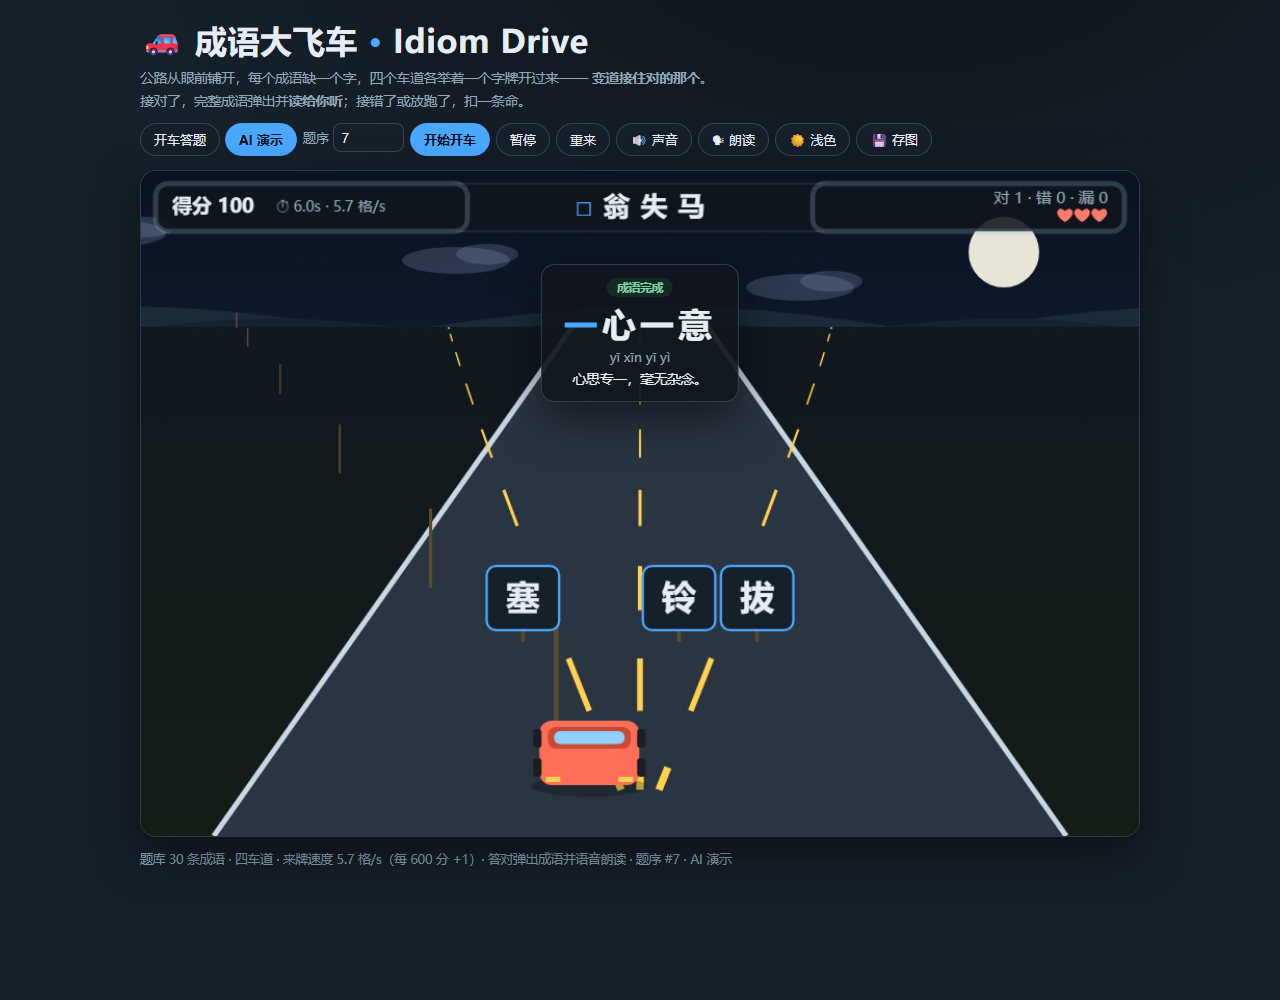
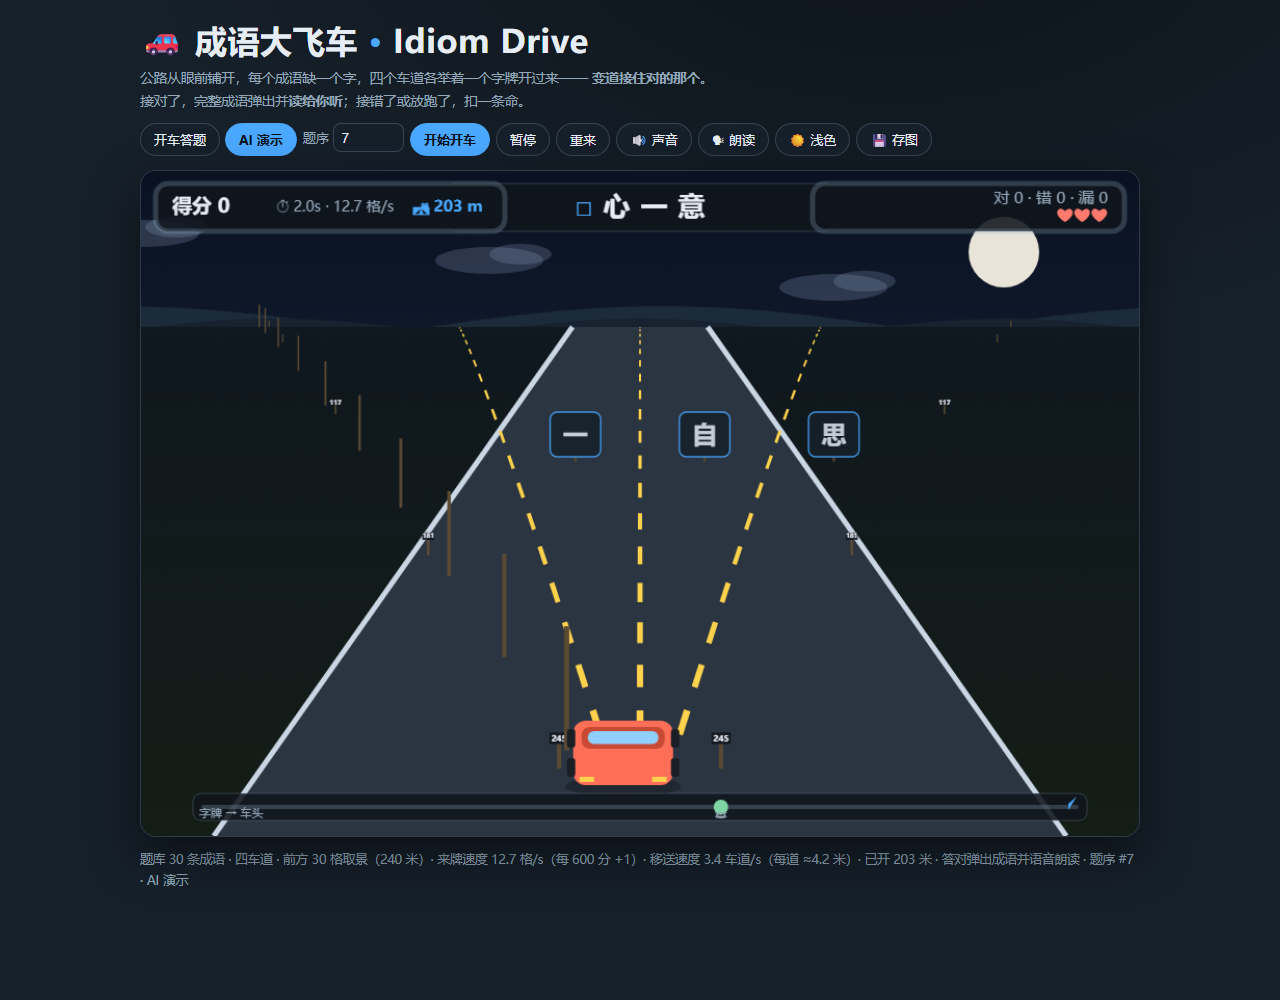
feat(idiom-drive): 拉长移送距离——更长取景、平滑变道与里程表
- 前方取景从 13 格扩到 30 格（约 240 米），来牌速度 5.5 -> 12.7 格/s
- 换道不再瞬移：carX 连续坐标以 3.4 车道/秒滑过去，车身随之侧倾，
  横向移送每道约 4.2 米并计入里程；接牌判定改看 carX 是否到位
- 新增 HUD 里程表与画面下缘的「字牌 -> 车头」距离条，路边加里程桩
- 同步更新 core harness（83 项）与页内自检（25 项）

diff --git a/idiom-driving.html b/idiom-driving.html
@@ -172,11 +172,15 @@ const IDIOMS = [
 ];
 
 const LANES = 4;
-const SPAWN_Z = 13;      // 字牌出现的最远距离
+const SPAWN_Z = 30;      // 字牌出现的最远距离：路很长，每块牌要开很久才到
 const HIT_Z = 0.8;       // 判定接住的车头距离
 const DEAD_Z = -0.9;     // 放跑判定
-const BASE_SPEED = 5.5;  // 初始来牌速度（格/秒）
-const MAX_SPEED = 13;
+const BASE_SPEED = 12.7; // 初始来牌速度（格/秒）
+const MAX_SPEED = 30;    // 速度上限
+const SHIFT_SPEED = 3.4; // 变道速度（车道/秒）：车是「移送」过去的，不是瞬移
+const METERS_PER_CELL = 8;  // 一格路 = 8 米
+const METER_PER_LANE = 4.2; // 横向移送一整条车道 ≈ 4.2 米
+const METERS_PER_SIGN = 90; // 一块字牌从出现到车头要开过的距离（里程刻度用）
 
 function createGame(cfg){
   cfg = cfg || {};
@@ -238,7 +242,11 @@ function createGame(cfg){
   const S = {
     seed, phase: 'menu', paused: false, t: 0, elapsed: 0,
     score: 0, combo: 0, bestCombo: 0, lives: 3,
-    speed: BASE_SPEED, carLane: 1,
+    speed: BASE_SPEED,
+    carLane: 1,          // 目标车道（整数）
+    carX: 1,             // 车当前所在的连续车道坐标，移送过程中在两个整数之间
+    shiftFrom: 1, shiftTo: 1, shiftT: 1,   // 移送进度
+    meters: 0,           // 里程表：已开过的米数
     question: null, nextAt: 0.6,
     stats: {correct: 0, wrong: 0, miss: 0, questions: 0},
     events: [], demo: cfg.mode === 'demo', rng,
@@ -265,7 +273,21 @@ function createGame(cfg){
     if (S.lives <= 0){ S.phase = 'over'; S.events.push({t: 'over', score: S.score}); }
   }
 
-  /* 演示模式的车：默认开在正解车道；偶尔犹豫一下偏到别的车道，制造真实的失误节奏。 */
+  /* 横向移送：车不是瞬移到隔壁车道，而是用一段时间滑过去。
+   * carX 是连续坐标（1.0 = 正中在 1 号道，1.35 = 正移送向 2 号道）。
+   * carLane 是车最终要停下的车道。 */
+  function moveCar(dt){
+    const diff = S.carLane - S.carX;
+    const step = SHIFT_SPEED * dt;
+    if (Math.abs(diff) <= step){ S.carX = S.carLane; }
+    else S.carX += Math.sign(diff) * step;
+    // 移送本身也算里程：横向移送一整条道约 4.2 米
+    const before = S.carX;
+    S.meters += Math.abs(S.carX - (S._lastCarX == null ? S.carX : S._lastCarX)) * METER_PER_LANE;
+    S._lastCarX = before;
+  }
+
+  /* 演示模式的车：默认开向正解车道；偶尔犹豫一下偏到别的车道，制造真实的失误节奏。 */
   function demoDrive(q, dt){
     if (S.demoMistake > 0){
       S.demoMistake -= dt;
@@ -292,26 +314,29 @@ function createGame(cfg){
     if (S.paused || S.phase !== 'play') return;
     S.t += dt; S.elapsed += dt;
     S.speed = Math.min(MAX_SPEED, BASE_SPEED + S.score / 600);
+    S.meters += S.speed * dt * METERS_PER_CELL;   // 里程表：往前开过的米数
     if (!S.question){
       if (S.t >= S.nextAt){
         S.question = makeQuestion(); S.stats.questions++;
         if (S.demo) demoDrive(S.question, dt);   // 新题一出现就选好车道
       }
+      moveCar(dt);
       return;
     }
     const q = S.question;
     if (S.demo && !q.resolved) demoDrive(q, dt);
+    moveCar(dt);
     for (const tk of q.tokens) if (!tk.done) tk.z -= S.speed * dt;
     if (!q.resolved){
-      // 车头同车道，字牌进入判定区：接到什么算什么
+      // 车头进入某条车道（横向位置足够靠近），字牌也到了判定区：接到什么算什么
       let hit = null;
       for (const tk of q.tokens){
-        if (tk.done || tk.lane !== S.carLane) continue;
+        if (tk.done || Math.abs(S.carX - tk.lane) > 0.35) continue;
         if (tk.z <= HIT_Z && tk.z > DEAD_Z){ hit = tk; break; }
       }
       if (hit){ hit.done = true; resolve(q, hit, hit.ch === q.answer ? 'correct' : 'wrong'); }
       else {
-        // 车停在空车道（或还没对上）：正解从车头开过去了 —— 判「放跑」
+        // 车不在正解车道（或还没开过去）：正解从车头开过去了 —— 判「放跑」
         const ans = q.tokens.filter(t => t.isAnswer)[0];
         if (ans && !ans.done && ans.z <= DEAD_Z){ ans.done = true; resolve(q, ans, 'miss'); }
       }
@@ -329,14 +354,16 @@ function createGame(cfg){
       if (o.mode) S.demo = o.mode === 'demo';
       S.phase = 'play'; S.paused = false;
       S.t = 0; S.elapsed = 0; S.score = 0; S.combo = 0; S.bestCombo = 0;
-      S.lives = o.lives || 3; S.speed = BASE_SPEED; S.carLane = 1;
+      S.lives = o.lives || 3; S.speed = BASE_SPEED;
+      S.carLane = 1; S.carX = 1; S._lastCarX = 1; S.meters = 0;
       S.question = null; S.nextAt = 0.6;
       S.demoMistake = 0; S.demoNextT = 0;
       S.stats = {correct: 0, wrong: 0, miss: 0, questions: 0};
       S.events.length = 0;
     },
     reset(){ S.phase = 'menu'; S.paused = false; S.t = 0; S.elapsed = 0; S.score = 0; S.combo = 0;
-      S.lives = 3; S.question = null; S.events.length = 0; S.stats = {correct: 0, wrong: 0, miss: 0, questions: 0}; },
+      S.lives = 3; S.question = null; S.events.length = 0; S.meters = 0;
+      S.stats = {correct: 0, wrong: 0, miss: 0, questions: 0}; },
     step
   };
 }
@@ -454,7 +481,7 @@ function createGame(cfg){
     const k = 1 - Math.max(-0.5, Math.min(SPAWN_Z, z)) / SPAWN_Z;
     return k;
   }
-  function depth(k){ return 0.12 + 0.88 * Math.pow(k, 2.4); }
+  function depth(k){ return 0.18 + 0.82 * Math.pow(k, 2.0); }
   function laneX(lane, k){
     const d = depth(k);
     const L = ROAD_L1 + (ROAD_L0 - ROAD_L1) * (1 - d);
@@ -505,23 +532,49 @@ function createGame(cfg){
     const scroll = (game.S.t * game.S.speed) % 1.6;
     ctx.strokeStyle = c.dash; ctx.lineCap = 'butt';
     for (let li = 1; li < LANES; li++){
-      for (let seg = 0; seg < 12; seg++){
+      for (let seg = 0; seg < 22; seg++){
         const z0 = SPAWN_Z - (seg * 1.6 + scroll), z1 = z0 - .8;
         if (z1 > SPAWN_Z) continue;
         if (z0 < -1) break;
         const k0 = persp(Math.min(z0, SPAWN_Z)), k1 = persp(Math.max(z1, -0.5));
-        const x0 = laneX(li - .5, k0) + (laneX(li + .5, k0) - laneX(li - .5, k0)) / 2;
-        const x1 = laneX(li - .5, k1) + (laneX(li + .5, k1) - laneX(li - .5, k1)) / 2;
-        // 更精确：车道边界在 lane 索引 li 的左边界
+        // 车道边界在 lane 索引 li 的左边界
         const bx0 = interpLane(li, k0), bx1 = interpLane(li, k1);
         ctx.lineWidth = Math.max(1.4, 7 * depth(k0));
         ctx.beginPath(); ctx.moveTo(bx0, roadY(k0)); ctx.lineTo(bx1, roadY(k1)); ctx.stroke();
       }
     }
+    // 路边里程桩：每 8 格一个，往后掠过去，看得出车开了多远
+    const postGap = 8;
+    const postPhase = (game.S.t * game.S.speed) % postGap;
+    for (let p = 0; p * postGap - postPhase < SPAWN_Z + postGap; p++){
+      const z = SPAWN_Z - (p * postGap - postPhase);
+      if (z < -1) continue;
+      const k = persp(Math.min(z, SPAWN_Z)), d = depth(k);
+      const y = roadY(k);
+      const L = ROAD_L1 + (ROAD_L0 - ROAD_L1) * (1 - d);
+      const R = ROAD_R1 + (ROAD_R0 - ROAD_R1) * (1 - d);
+      // 每 8 格 = 64 米
+      const mark = Math.max(1, Math.round((SPAWN_Z - z) * METERS_PER_CELL));
+      for (const side of [-1, 1]){
+        const x = side < 0 ? L - 16 * d - 6 : R + 16 * d + 6;
+        ctx.strokeStyle = c.pole;
+        ctx.lineWidth = Math.max(1.2, 4 * d);
+        ctx.beginPath(); ctx.moveTo(x, y); ctx.lineTo(x, y - 34 * d); ctx.stroke();
+        if (d > 0.25){
+          ctx.fillStyle = c.hud;
+          ctx.fillRect(x - 9 * d, y - 34 * d, 18 * d, 11 * d);
+          ctx.fillStyle = c.ink;
+          ctx.font = '700 ' + Math.max(6, Math.round(8 * d)) + 'px system-ui,sans-serif';
+          ctx.textAlign = 'center'; ctx.textBaseline = 'middle';
+          ctx.fillText(String(mark), x, y - 28 * d);
+          ctx.textAlign = 'left'; ctx.textBaseline = 'alphabetic';
+        }
+      }
+    }
     // 电线杆
     ctx.strokeStyle = c.pole;
-    for (let p = 0; p < 6; p++){
-      const z = SPAWN_Z - ((p * 2.4 + (game.S.t * game.S.speed * .8) % 2.4));
+    for (let p = 0; p < 10; p++){
+      const z = SPAWN_Z - ((p * 3.2 + (game.S.t * game.S.speed * .8) % 3.2));
       if (z < 0) continue;
       const k = persp(z), d = depth(k);
       const y = roadY(k), x = ROAD_L1 + (ROAD_L0 - ROAD_L1) * (1 - d) - 18 * (1 - d) - 4;
@@ -571,10 +624,14 @@ function createGame(cfg){
   function drawCar(){
     const c = th();
     const S = game.S;
-    const x = laneX(S.carLane, 1), y = CAR_Y;
+    // 车画在连续坐标 carX 上：移送过程中会真的从一条道滑到另一条道
+    const x = laneX(S.carX, 1), y = CAR_Y;
     const w = 96, h = 62;
+    // 移送时车身略微侧倾，像在打方向
+    const tilt = (S.carLane - S.carX) * 0.10;
     ctx.save();
     ctx.translate(x, y);
+    ctx.rotate(tilt);
     ctx.fillStyle = 'rgba(0,0,0,.25)';
     ctx.beginPath(); ctx.ellipse(0, h * .52, w * .58, 10, 0, 0, 7); ctx.fill();
     // 车身
@@ -618,7 +675,7 @@ function createGame(cfg){
     const c = th(), S = game.S;
     ctx.save();
     ctx.fillStyle = c.hud;
-    roundRect(14, 12, 300, 46, 12); ctx.fill();
+    roundRect(14, 12, 336, 46, 12); ctx.fill();
     ctx.strokeStyle = c.hudLine; ctx.stroke();
     roundRect(CW - 314, 12, 300, 46, 12); ctx.fill();
     ctx.strokeStyle = c.hudLine; ctx.stroke();
@@ -630,6 +687,11 @@ function createGame(cfg){
     ctx.font = '14px system-ui,sans-serif';
     ctx.fillStyle = c.muted;
     ctx.fillText('⏱ ' + S.elapsed.toFixed(1) + 's · ' + (S.speed).toFixed(1) + ' 格/s', 130, 35);
+    // 里程表：往前开过多少米 + 横向移送多少米
+    const km = S.meters / 1000;
+    ctx.fillStyle = c.plateEdge;
+    ctx.font = '700 15px system-ui,sans-serif';
+    ctx.fillText('🛣 ' + (km >= 1 ? km.toFixed(2) + ' km' : Math.round(S.meters) + ' m'), 262, 35);
     ctx.textAlign = 'right';
     ctx.font = '15px system-ui,sans-serif';
     ctx.fillStyle = c.muted;
@@ -639,6 +701,45 @@ function createGame(cfg){
     for (let i = 0; i < 3; i++) hearts += i < S.lives ? '❤' : '♡';
     ctx.fillStyle = c.danger;
     ctx.fillText(hearts + (S.combo >= 2 ? '  连击 ×' + S.combo : ''), CW - 30, 45);
+    ctx.restore();
+    ctx.textAlign = 'left';
+  }
+
+  /* 画面下缘的移送距离条：显示每块字牌还要开多远才到车头 */
+  function drawDistanceBar(){
+    const c = th(), S = game.S;
+    if (!S.question) return;
+    const barY = CH - 26, barX = 60, barW = CW - 120;
+    ctx.save();
+    ctx.fillStyle = c.hud;
+    roundRect(barX - 10, barY - 15, barW + 20, 26, 8); ctx.fill();
+    ctx.strokeStyle = c.hudLine; ctx.lineWidth = 1; ctx.stroke();
+    // 轨道
+    ctx.strokeStyle = c.hudLine; ctx.lineWidth = 4; ctx.lineCap = 'round';
+    ctx.beginPath(); ctx.moveTo(barX, barY - 2); ctx.lineTo(barX + barW, barY - 2); ctx.stroke();
+    // 每块字牌在轨道上的位置：越近车头越靠右
+    for (const tk of S.question.tokens){
+      if (tk.done) continue;
+      const k = Math.max(0, Math.min(1, 1 - tk.z / SPAWN_Z));
+      const x = barX + k * barW;
+      ctx.fillStyle = tk.isAnswer ? c.good : c.ink;
+      ctx.globalAlpha = tk.isAnswer ? 1 : .55;
+      ctx.beginPath(); ctx.arc(x, barY - 2, tk.isAnswer ? 7 : 5, 0, 7); ctx.fill();
+      ctx.globalAlpha = 1;
+      ctx.fillStyle = c.muted;
+      ctx.font = '11px system-ui,sans-serif';
+      ctx.textAlign = 'center';
+      ctx.fillText(tk.ch, x, barY + 8);
+    }
+    // 车
+    ctx.fillStyle = c.plateEdge;
+    ctx.beginPath();
+    ctx.moveTo(barX + barW, barY - 12); ctx.lineTo(barX + barW - 8, barY - 5); ctx.lineTo(barX + barW - 8, barY + 1);
+    ctx.closePath(); ctx.fill();
+    ctx.textAlign = 'left';
+    ctx.font = '11px system-ui,sans-serif';
+    ctx.fillStyle = c.muted;
+    ctx.fillText('字牌 → 车头', barX - 4, barY + 8);
     ctx.restore();
     ctx.textAlign = 'left';
   }
@@ -705,8 +806,10 @@ function createGame(cfg){
       if (popupTimer <= 0 && els.popup) els.popup.classList.remove('show');
     }
     if (els.foot){
-      els.foot.textContent = '题库 ' + IDIOMS.length + ' 条成语 · 四车道 · 来牌速度 ' + S.speed.toFixed(1) +
-        ' 格/s（每 600 分 +1）· 答对弹出成语并语音朗读 · 题序 #' + S.seed + ' · ' + (mode === 'demo' ? 'AI 演示' : '开车答题');
+      els.foot.textContent = '题库 ' + IDIOMS.length + ' 条成语 · 四车道 · 前方 ' + SPAWN_Z + ' 格取景（' +
+        Math.round(SPAWN_Z * METERS_PER_CELL) + ' 米）· 来牌速度 ' + S.speed.toFixed(1) +
+        ' 格/s（每 600 分 +1）· 移送速度 ' + SHIFT_SPEED + ' 车道/s（每道 ≈' + METER_PER_LANE + ' 米）· ' +
+        '已开 ' + Math.round(S.meters) + ' 米 · 答对弹出成语并语音朗读 · 题序 #' + S.seed + ' · ' + (mode === 'demo' ? 'AI 演示' : '开车答题');
     }
   }
 
@@ -734,6 +837,7 @@ function createGame(cfg){
     drawCar();
     drawQuestionBanner();
     drawHud();
+    drawDistanceBar();
   }
 
   /* ---------- 输入 ---------- */
@@ -826,7 +930,8 @@ function createGame(cfg){
     state(){
       const S = game.S;
       return {phase: S.phase, paused: S.paused, score: S.score, combo: S.combo, lives: S.lives,
-        elapsed: S.elapsed, speed: S.speed, carLane: S.carLane, seed: S.seed, demo: S.demo,
+        elapsed: S.elapsed, speed: S.speed, carLane: S.carLane, carX: Math.round(S.carX * 100) / 100,
+        meters: Math.round(S.meters), seed: S.seed, demo: S.demo,
         stats: JSON.parse(JSON.stringify(S.stats)),
         question: S.question ? {idiom: S.question.item.t, blankIdx: S.question.blankIdx,
           answer: S.question.answer, answerLane: S.question.answerLane,
@@ -866,11 +971,23 @@ function createGame(cfg){
       push('答案恰在一个车道', !!ansTok && ansTok.lane === q.answerLane && q.tokens.filter(t => t.ch === q.answer).length === 1);
       push('有一车道是空的', !!q && q.emptyLane >= 0 && !q.tokens.some(t => t.lane === q.emptyLane));
       push('三字互不重复', q && new Set(q.tokens.map(t => t.ch)).size === 3);
+      push('前方取景距离够长', SPAWN_Z >= 24 && SPAWN_Z * METERS_PER_CELL >= 200, SPAWN_Z + ' 格 ≈ ' + Math.round(SPAWN_Z * METERS_PER_CELL) + ' 米');
+      // 移送：车要真的滑过去，不是瞬移
+      if (q){
+        const gShift = createGame({seed: 7}); gShift.startMatch({});
+        for (let i = 0; i < 400 && !gShift.S.question; i++) gShift.S.question && gShift.step(1/60);
+        gShift.setLane(3);
+        gShift.step(1/60);
+        push('移送是连续的（不是瞬移）', gShift.S.carX > 1 && gShift.S.carX < 3, 'carX=' + gShift.S.carX.toFixed(2));
+        const before = gShift.S.meters;
+        for (let i = 0; i < 60; i++) gShift.step(1/60);
+        push('里程表随行驶增加', gShift.S.meters > before, Math.round(gShift.S.meters) + ' 米');
+      }
       // 接对
       if (q){
         g.setLane(q.answerLane);
         let sawCorrect = false;
-        for (let i = 0; i < 900 && !sawCorrect; i++){ g.step(1/60); while (g.S.events.length){ const ev = g.S.events.shift(); if (ev.t === 'correct') sawCorrect = true; } }
+        for (let i = 0; i < 2400 && !sawCorrect; i++){ g.step(1/60); while (g.S.events.length){ const ev = g.S.events.shift(); if (ev.t === 'correct') sawCorrect = true; } }
         push('接对得分+100', sawCorrect && g.S.score >= 100 && g.S.stats.correct === 1, 'score=' + g.S.score);
         push('弹出数据完整', sawCorrect && g.S.stats.questions >= 1);
       }
@@ -882,7 +999,7 @@ function createGame(cfg){
         const wrongTok = q4.tokens.filter(t => !t.isAnswer)[0];
         g4.setLane(wrongTok.lane);
         let sawWrong = false, lives0 = g4.S.lives;
-        for (let i = 0; i < 900 && !sawWrong; i++){ g4.step(1/60); while (g4.S.events.length){ const ev = g4.S.events.shift(); if (ev.t === 'wrong'){ sawWrong = true; } } }
+        for (let i = 0; i < 2400 && !sawWrong; i++){ g4.step(1/60); while (g4.S.events.length){ const ev = g4.S.events.shift(); if (ev.t === 'wrong'){ sawWrong = true; } } }
         push('接错扣一条命', sawWrong && g4.S.lives === lives0 - 1, 'lives ' + lives0 + '->' + g4.S.lives);
       }
       // 放跑扣命：停在空车道，正解直接开过去
@@ -892,7 +1009,7 @@ function createGame(cfg){
       if (q5){
         g5.setLane(q5.emptyLane);
         let sawMiss = false;
-        for (let i = 0; i < 1800 && !sawMiss; i++){ g5.step(1/60); while (g5.S.events.length){ const ev = g5.S.events.shift(); if (ev.t === 'miss') sawMiss = true; } }
+        for (let i = 0; i < 2400 && !sawMiss; i++){ g5.step(1/60); while (g5.S.events.length){ const ev = g5.S.events.shift(); if (ev.t === 'miss') sawMiss = true; } }
         push('放跑扣一条命', sawMiss, '');
       }
       // 三条命用完即结束

diff --git a/README.md b/README.md
@@ -16,7 +16,10 @@
 | 静音 / 朗读开关 / 深色 / 存图 | <kbd>M</kbd> · <kbd>V</kbd> · <kbd>T</kbd> · <kbd>E</kbd> |
 
 - 题库 30 条成语，每条带拼音与释义；题序 `seed` 固定后出题完全可复现。
-- 来牌速度随得分上升（每 600 分 +1 格/秒，最快 13 格/秒）。
+- **路很长**：前方取景 30 格（约 240 米），每块字牌都要开过一段路才到车头；路边有里程桩标出米数。
+- **车是移送过去的**，不是瞬移：换一道要花约 0.6 秒滑过去，车身跟着侧倾；每道横向移送约 4.2 米，也计入里程。
+- HUD 有实时里程表，画面下缘还有一条「字牌 → 车头」的进度条，看得出每块牌还有多远。
+- 来牌速度随得分上升（每 600 分 +1 格/秒，最快 30 格/秒）。
 - 「开车答题」自己开，「AI 演示」自动开给你看。
 
 ## 自动化参数
@@ -36,11 +39,12 @@
 
 ## 验证
 
-- `idiom-driving.html?selftest=1`：**22 项页内断言全部通过**（含题库格式、同题序出题一致、换题序出题改变、
-  答案恰在一处、有一条空车道、接对得分、接错扣命、放跑扣命、命用完一局结束、暂停冻结时间、
-  AI 演示能答对、速度随得分上升、弹层含拼音与释义、画布非空白的像素检查、可导出 PNG、无横向溢出）。
-- `node tools/idiom-drive-core.cjs`：**70 条规则 / 状态机断言全部通过**（另覆盖三种结果计数之和等于出题数、
-  16 组种子均不抛异常且状态无 NaN、多种子都能出题）。
+- `idiom-driving.html?selftest=1`：**25 项页内断言全部通过**（含题库格式、同题序出题一致、换题序出题改变、
+  答案恰在一处、有一条空车道、前方取景距离够长、移送是连续的而非瞬移、里程表随行驶增加、
+  接对得分、接错扣命、放跑扣命、命用完一局结束、暂停冻结时间、AI 演示能答对、速度随得分上升、
+  弹层含拼音与释义、画布非空白的像素检查、可导出 PNG、无横向溢出）。
+- `node tools/idiom-drive-core.cjs`：**83 条规则 / 状态机断言全部通过**（另覆盖移送耗时≈距离/移送速度、
+  移送途中确实经过中间车道、三种结果计数之和等于出题数、16 组种子均不抛异常且状态无 NaN、多种子都能出题）。
 - `node tools/idiom-drive-ui-harness.cjs`：DOM + Canvas 桩驱动 UI 层跑完整场景，渲染与输入事件全程不抛异常、
   HUD 无 NaN、弹层里确有四个汉字与拼音释义。
 - 无头 Edge 截图见 `docs/screenshots/`：`before-idiom-drive-main.png` 是改动前 `main` 分支的实际内容
